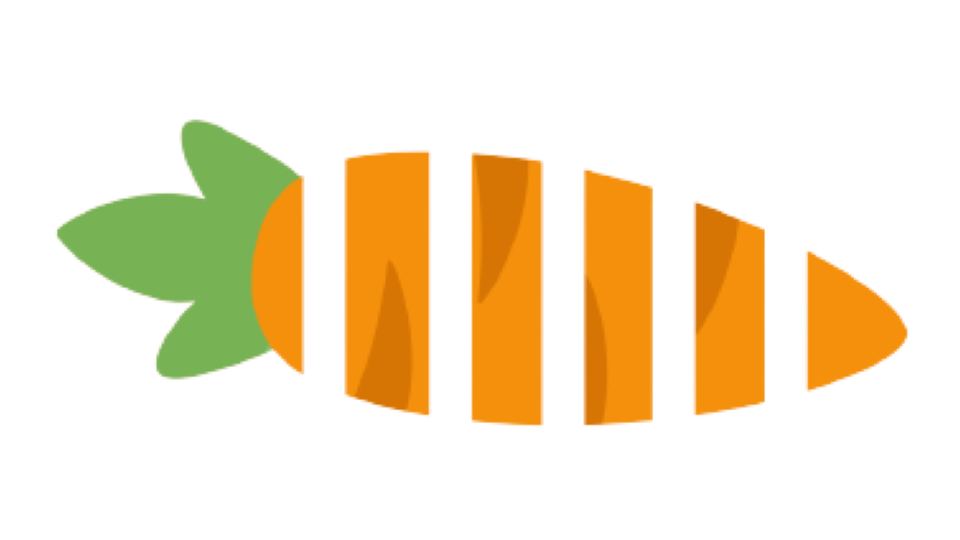
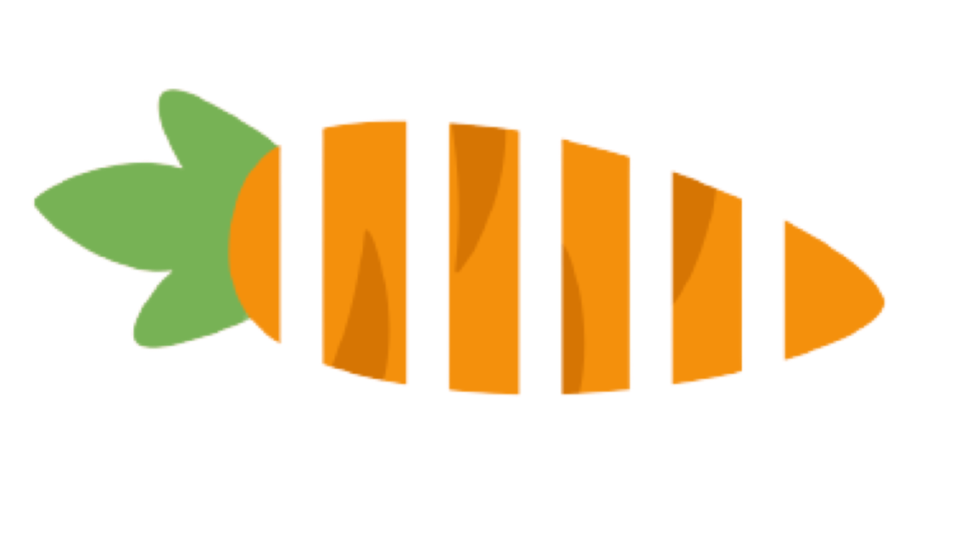
main steps all done

Changed region(s): [[0.0312, 0.1481, 0.9688, 0.8]]

diff --git a/src/cooking_game/grate.js b/src/cooking_game/grate.js
@@ -1,0 +1,67 @@
+import React, { useState } from 'react'
+import Draggable from 'react-draggable'
+import recipes from './recipes'
+import './fridge.css'
+import { useEffect } from 'react/cjs/react.development'
+
+function resizeContainer (){
+    return (1080/1920 * window.innerWidth)
+}
+
+const Grater = ({recipeNo = 1   , stepNo = 2, difficulty = 1}) =>{
+    let task = recipes[recipeNo].step[stepNo]
+    const [width, setWidth] = useState(20)
+    const [dragno, setDragno] = useState(0)
+    const [text, setText] = useState(null)
+    const correctdrag= task.adapt.grate_no[difficulty]*971
+
+    const Dragging = (e,ui) =>{
+        let distdrag = Math.sqrt(Math.pow(ui.deltaX,2) + Math.pow(ui.deltaY,2))
+        if(dragno >= correctdrag){
+                setText('Great Job!')
+                return
+            }
+        setDragno(dragno + distdrag)
+        setWidth(24-dragno*(20/correctdrag))
+    }
+
+    useEffect(()=>{
+        setTimeout(()=>{
+            setText(null)
+        }, 2000)
+    },[text])
+
+    return (
+        <div className = 'background'>
+        <div className= 'container'
+        style = {{
+                backgroundImage: `url(/general/bg/grater.png)`,
+                height: `${resizeContainer()}px`,
+                top: `${(window.innerHeight - resizeContainer())/2}px`,
+        }}> 
+
+        <div className='timebar'></div>
+
+        <div className='timebar' style={{
+            width: `${dragno*(80/correctdrag)}%`,
+            backgroundColor: 'green',
+        }}></div>
+
+        <p> {text}</p>
+
+        <Draggable onDrag={Dragging}>
+            <div className='ingredients-r' style ={{
+                backgroundImage: 'url(/fridge_pics/ingredient3.png)',
+                width: `${width}%`,
+                height: `20%`,
+                backgroundSize: 'cover',
+                left: '40%',
+                top: '40%'
+            }}> </div>
+        </Draggable>
+
+        </div></div>
+    )
+}
+
+export default Grater

diff --git a/src/cooking_game/mixing.js b/src/cooking_game/mixing.js
@@ -22,6 +22,7 @@ function generateinitialcoords (ing){
 const Counter = ({recipeNo = 4, stepNo = 4, difficulty = 2}) => {  
     //variables for use 
     let task = recipes[recipeNo].step[stepNo]
+    console.log(task.adapt.time)
     const total_seconds = task.adapt.time[difficulty] //adapt based on sustained attention
     const ing_arr = task.ing[difficulty]
     const  initialcoords =  generateinitialcoords(ing_arr.length) 
@@ -143,21 +144,20 @@ const Counter = ({recipeNo = 4, stepNo = 4, difficulty = 2}) => {
     <div className = 'background'>
         <div className= 'container'
         style = {{
-                backgroundImage: `url(${imgSrc})`,
+                backgroundImage: `url(/general/bg/mixing.png)`,
                 height: `${resizeContainer()}px`,
                 top: `${(window.innerHeight - resizeContainer())/2}px`,
         }}>
 
 
         {ing && ing.map((food) =>
-        <Draggable disabled={(task.adapt.type==='add')? false: true}nodeRef={ingRef} key={`movinging-${food.unique_id}`} onMouseDown={()=>{checkTime(food)}}onStart={()=>{register(food)}} onStop={checkIng}>
+        <Draggable nodeRef={ingRef} key={`movinging-${food.unique_id}`} onStart={()=>{register(food)}} onStop={checkIng}>
             <div key = {`div-${food.unique_id}`} className='ingredients' ref={ingRef} style ={{
                     backgroundImage: `url(${food.background})`,
                     left: `${food.left}%`,
                     top: `${food.top}%`,
-                    width: '18%',
-                    height: '18%',
-                    animation: `cooking ${correctseconds[food.unique_id]}s linear 0s 1 normal forwards ${(task.adapt.type === 'add')? 'paused': cook[food.unique_id]}`
+                    width: '22%',
+                    height: '22%',
                 }}
             >
             </div>
@@ -201,4 +201,4 @@ const Counter = ({recipeNo = 4, stepNo = 4, difficulty = 2}) => {
     </div>
 )}
 
-export default Stove
+export default Counter

diff --git a/src/cooking_game/chopping_board.js b/src/cooking_game/chopping_board.js
@@ -1,5 +1,4 @@
-import React, { useState, useEffect, useRef } from 'react'
-import Draggable from 'react-draggable'
+import React, { useState } from 'react'
 import recipes from './recipes'
 
 function resizeContainer (){
@@ -17,11 +16,14 @@ const ChoppingBoard = ({recipeNo = 2, stepNo = 2, difficulty = 1}) =>{
     const Chopping = () =>{
         //total width is 50
         //each chop should reduce width by correct chopno/50
-        setWidth(50 - chopno*correctchop/50)
-        console.log(`new width is ${50 - chopno*correctchop/50}`)
+        if (chopno === correctchop){
+            return
+        } 
+        setWidth(50 - chopno*50/correctchop)
         setChopno(chopno + 1)
+        console.log(chopno)
 
-        if (chopno === correctchop){console.log('yay')}
+        
     }
 
     return (
@@ -37,21 +39,21 @@ const ChoppingBoard = ({recipeNo = 2, stepNo = 2, difficulty = 1}) =>{
 
         <div className='timebar' style={{
             backgroundColor: 'green',
-            width: `${50-width}%`
+            width: `${chopno*(80/correctchop)}%`
         }}></div>
 
-        <div className='ingredients' key='cut' style={{
+        <div className='ingredients' key='cut' onClick= {Chopping}  style={{
              backgroundImage: `url(/fridge_pics/ingredientc-${task.ing[0]}.png)`,
              left: '25%',
              top: '28.5%',
              width: '50%',
-             height: '50%',
+             height: '50%'
         }}></div> 
 
         <div className='ingredients' onClick= {Chopping} style = {{
             backgroundImage: `url(/fridge_pics/ingredienth-${task.ing[0]}.png)`,
             left: '25%',
-            top: '30%',
+            top: '28.5%',
             width: `${width}%`,
             height: '50%',
             backgroundSize: 'cover'

diff --git a/src/cooking_game/recipes.js b/src/cooking_game/recipes.js
@@ -59,7 +59,9 @@ let recipes = [
             },
             {
                 ing: [3],
-                adapt: []
+                adapt: {
+                    grate_no : [10,20,40]
+                }
             },
             {
                 ing: [[4,13], [4,13,5], [14,4,13,5]],
@@ -89,9 +91,9 @@ let recipes = [
             },
             {
                 ing: [10],
-                adapt: [
-
-                ]
+                adapt: {
+                    chop_no: [20,40,60]
+                }
             },
             {
                 ing: [[4,13], [4,13,5], [14,4,13,5]],
@@ -154,13 +156,13 @@ let recipes = [
                 adapt: []
             },
             {
-                ing: [[4,13], [4,13,5], [14,4,13,5]],
+                ing: [],
                 adapt: {
                 
                 }
             },
             {
-                ing: [12],
+                ing: [[4,13], [4,13,5], [14,4,13,5]],
                 adapt:{
                     fireNo: 1,
                     cookery: 'pan',

diff --git a/src/cooking_game/main.js b/src/cooking_game/main.js
@@ -3,6 +3,8 @@ import Fridge from "./fridge"
 import React, { useState, useEffect, useRef } from 'react'
 import Stove from "./stove"
 import ChoppingBoard from "./chopping_board";
+import Counter from "./mixing";
+import Grater from "./grate";
 
 
 
@@ -14,7 +16,7 @@ export const CurrentScene= () =>{
         //<KitchenOne/>
         //<Fridge list ={[0,3,5,12]}/>
         //<Stove/>
-        <ChoppingBoard/>
+        <Grater/>
     )
 }
 export default CurrentScene

diff --git a/src/cooking_game/fridge.css b/src/cooking_game/fridge.css
@@ -7,6 +7,13 @@
     position: absolute;
 }
 
+.ingredients-r{
+    transform: rotateZ(180deg);
+    background-repeat: no-repeat;
+    position: absolute;
+    display: block;
+}
+
 .egg{
     background-image: url('./fridge_pics/ingredient5.png');
     background-size: contain;
